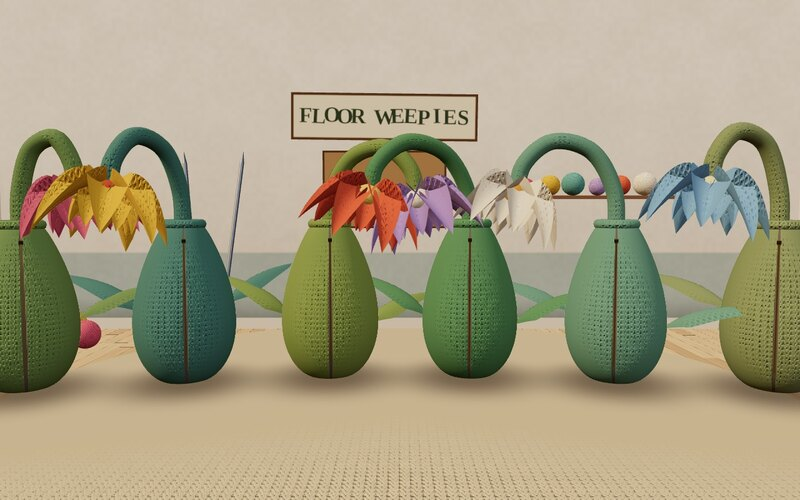
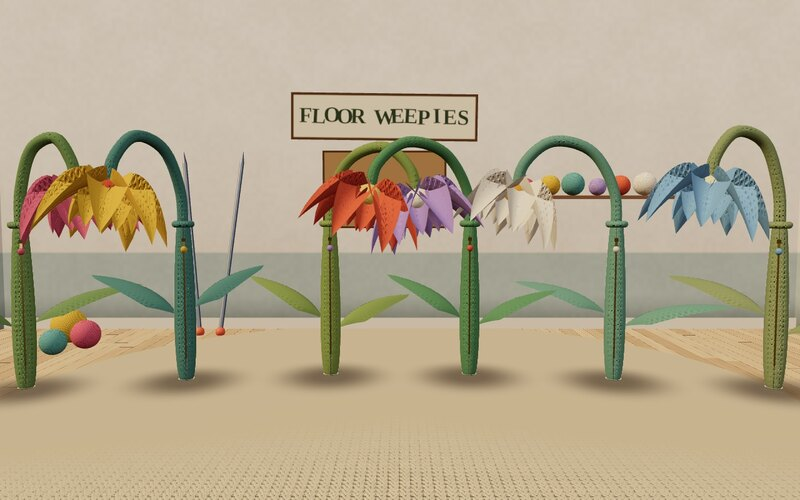
Floor Weepies: thin stems that are bigger on the inside
The stems are now as thin as stems from the room and open into a large
knitted room once you step in; the mouth stretches out as you climb in
and the space draws in snug as you zip up.

Claude-Session: https://claude.ai/code/session_01RG7EvXmrhR2hdLJ6kn4qNk

Changed region(s): [[0.0, 0.24, 1.0, 0.84], [0.4062, 0.24, 0.5938, 0.39]]

diff --git a/works/2026-11-15-floor-weepies/knit.js b/works/2026-11-15-floor-weepies/knit.js
@@ -2,21 +2,26 @@
 // rows of purl bumps on the inside, the way a real knitted tube looks when you climb into it.
 import * as THREE from 'three';
 
-export const ZTOP = 1.3, ZBOT = .22, POD_H = 1.45;
-export const podR = y => .15 + .3 * Math.pow(Math.sin(Math.PI * Math.pow(Math.min(1, Math.max(0, y / POD_H)), .7)), .75);
+export const ZTOP = 1.3, ZBOT = .22, POD_H = 1.45, IN_H = 1.7;
+// A stem has two sizes. From the room it is as thin as a stem. From inside it is a room.
+const prof = (y, a, b) => Math.pow(Math.sin(Math.PI * Math.pow(Math.min(1, Math.max(0, y / POD_H)), a)), b);
+export const stemR = y => .055 + .04 * prof(y, .7, .75);
+export const roomR = y => .22 + .9 * prof(y, .75, .7);
 
 export const TIME = { value: 0 };
 
 const POD_GLSL = /* glsl */`
-uniform float uZip, uSnug, uPhase, uTime;
-float podR(float y){ return .15 + .3*pow(max(sin(3.14159*pow(clamp(y/${POD_H}, 0., 1.), .7)), 0.), .75); }
+uniform float uZip, uSnug, uPhase, uTime, uIn, uStretch;
+float prof(float y, float a, float b){ return pow(max(sin(3.14159*pow(clamp(y/${POD_H}, 0., 1.), a)), 0.), b); }
+float podR(float y){ return mix(.055 + .04*prof(y, .7, .75), (.22 + .9*prof(y, .75, .7))*(1. - .45*uSnug), uIn); }
+float podY(float y){ return y*mix(1., ${IN_H}, uIn); }
 // Half-width of the opening, in radians, at height y: a lens above the zip pull.
 float zipW(float y){
   float span = ${ZTOP} - uZip;
   if (y <= uZip || y >= ${ZTOP} || span < .001) return 0.;
-  return .62*min(1., span/.45)*pow(sin(3.14159*(y - uZip)/span), .7);
+  return mix(1.15, .4, uIn)*min(1., span/.45)*pow(sin(3.14159*(y - uZip)/span), .7);
 }
-float podRadius(float y){ return podR(y)*(1. + .012*sin(uTime*1.1 + uPhase))*(1. - .07*uSnug); }
+float podRadius(float y){ return podR(y)*(1. + .012*sin(uTime*1.1 + uPhase)); }
 vec3 podP;
 `;
 
@@ -87,7 +92,7 @@ if (!gl_FrontFacing) {
 function install(mat, o = {}) {
   const uniforms = {
     uLining: { value: o.lining || mat.color }, uGlow: { value: o.glow ?? 0 }, uTape: { value: o.pod ? 1 : 0 },
-    uWin: o.win || { value: 0 }, uCapY: { value: o.capY ?? 1 }, uSnug: o.snug || { value: 0 }, uZip: o.zip || { value: ZTOP }, uPhase: { value: o.phase ?? 0 }, uTime: TIME
+    uWin: o.win || { value: 0 }, uCapY: { value: o.capY ?? 1 }, uIn: o.inn || { value: 0 }, uStretch: o.stretch || { value: 0 }, uSnug: o.snug || { value: 0 }, uZip: o.zip || { value: ZTOP }, uPhase: { value: o.phase ?? 0 }, uTime: TIME
   };
   mat.onBeforeCompile = sh => {
     Object.assign(sh.uniforms, uniforms);
@@ -98,21 +103,21 @@ function install(mat, o = {}) {
           float a = position.x, y = position.y, w = zipW(y);
           float ap = w + a*(6.28318 - 2.*w)/6.28318;
           float edge = min(a, 6.28318 - a);
-          float r = podRadius(y) + w*.2*exp(-edge/.3);          // the flaps fall open a little
-          podP = vec3(r*sin(ap), y, r*cos(ap));
-          float dr = (podR(y + .01) - podR(y - .01))/.02;
+          float r = podRadius(y)*(1. + (w*.5 + uStretch*2.2)*exp(-edge/.6));     // the mouth stretches out to you
+          podP = vec3(r*sin(ap), podY(y), r*cos(ap));
+          float dr = (podR(y + .01) - podR(y - .01))/.02/mix(1., 1.7, uIn);
           objectNormal = normalize(vec3(sin(ap), -dr, cos(ap)));
           vEdge = edge; vPod = vec2(ap, y);
         }` : o.tooth ? /* glsl */`
         {
           float y = aTooth.x, w = zipW(y), ang = aTooth.y*(w + .006);
-          float r = podRadius(y) + w*.2 + .006;
+          float r = podRadius(y)*(1. + w*.5 + uStretch*2.2) + .006, big = mix(1., 1.7, uIn);
           vec3 radial = vec3(sin(ang), 0., cos(ang)), tang = vec3(cos(ang), 0., -sin(ang));
-          podP = radial*(r + position.z) + vec3(0., y + position.y, 0.) + tang*(position.x - aTooth.y*.002);
+          podP = radial*(r + position.z*big) + vec3(0., podY(y) + position.y*big, 0.) + tang*(position.x - aTooth.y*.002)*big;
           objectNormal = normalize(tang*normal.x + vec3(0., normal.y, 0.) + radial*normal.z);
           vEdge = 9.; vPod = vec2(0.);
         }` : 'vEdge = 9.; vPod = vec2(0., uCapY);'))
-      .replace('#include <begin_vertex>', '#include <begin_vertex>\nvSt = uv;\n' + (o.pod || o.tooth ? 'transformed = podP;' : ''));
+      .replace('#include <begin_vertex>', '#include <begin_vertex>\nvSt = uv;\n' + (o.pod ? 'vSt *= mix(vec2(1.), vec2(15., 1.9), uIn);' : '') + (o.pod || o.tooth ? 'transformed = podP;' : ''));
     if (o.tooth) return;
     sh.fragmentShader = sh.fragmentShader
       .replace('#include <common>', '#include <common>\n' + FRAG)
@@ -151,28 +156,29 @@ const rnd = (() => { let a = 20261115; return () => { a = (a + 0x6d2b79f5) | 0; 
 // One floor weepie: a stem you can sit in, a zip, two leaves, and a head that hangs.
 export function buildFlower({ stem, petal: petalCol, heart, lining }) {
   const group = new THREE.Group();
-  const zip = { value: ZTOP }, snug = { value: 0 }, win = { value: 0 }, phase = rnd() * 6.28;
+  const zip = { value: ZTOP }, snug = { value: 0 }, win = { value: 0 }, inn = { value: 0 }, stretch = { value: 0 }, phase = rnd() * 6.28;
+  const extras = new THREE.Group(); group.add(extras);       // everything that is only there from outside
 
   // The stem. Its vertices are (angle, height); the shader wraps them round and opens the zip.
   const pg = new THREE.PlaneGeometry(1, 1, 110, 84), pp = pg.attributes.position, pu = pg.attributes.uv;
   for (let i = 0; i < pp.count; i++) {
     const a = pu.getX(i) * Math.PI * 2, y = pu.getY(i) * POD_H;
-    pp.setXYZ(i, a, y, 0); pu.setXY(i, pu.getX(i) * 50, y / SH);
+    pp.setXYZ(i, a, y, 0); pu.setXY(i, pu.getX(i) * 10, y / SH);
   }
-  const pod = new THREE.Mesh(pg, knit(stem, { pod: true, zip, snug, win, phase, lining: new THREE.Color(lining), glow: 1 }));
+  const pod = new THREE.Mesh(pg, knit(stem, { pod: true, zip, snug, win, inn, stretch, phase, lining: new THREE.Color(lining), glow: 1 }));
   pod.frustumCulled = false; group.add(pod);
-  for (const [y, r] of [[.012, .2], [POD_H - .01, .19]]) {         // gathered shut at both ends
-    const cap = new THREE.Mesh(stitchUV(new THREE.CircleGeometry(r, 24), 7, 9), knit(stem, { lining: new THREE.Color(lining), glow: 1, snug, capY: y }));
-    cap.rotation.x = y < 1 ? Math.PI / 2 : -Math.PI / 2;      // wrong side in, like the stem cap.position.y = y; group.add(cap);
-  }
-
+  const caps = [0, POD_H].map(y => {                              // gathered shut at both ends
+    const cap = new THREE.Mesh(stitchUV(new THREE.CircleGeometry(1, 24), 7, 9), knit(stem, { lining: new THREE.Color(lining), glow: 1, snug, capY: y }));
+    cap.rotation.x = y < 1 ? Math.PI / 2 : -Math.PI / 2;          // wrong side in, like the stem
+    group.add(cap); return cap;
+  });
   // Zip teeth, in the same shader space as the stem so they ride the edges of the opening.
   const pitch = .0135, n = Math.floor((ZTOP - ZBOT) / pitch), tooth = new Float32Array(n * 4);
   for (let i = 0; i < n; i++) { tooth.set([ZBOT + i * pitch, 1], i * 4); tooth.set([ZBOT + (i + .5) * pitch, -1], i * 4 + 2); }
   const tg = new THREE.BoxGeometry(.013, .0075, .007);
   tg.setAttribute('aTooth', new THREE.InstancedBufferAttribute(tooth, 2));
   const brass = new THREE.MeshStandardMaterial({ color: 0xd9b25a, roughness: .35, metalness: .9 });
-  const teeth = new THREE.InstancedMesh(tg, install(brass.clone(), { tooth: true, zip, snug, phase }), n * 2);
+  const teeth = new THREE.InstancedMesh(tg, install(brass.clone(), { tooth: true, zip, snug, inn, stretch, phase }), n * 2);
   teeth.frustumCulled = false; group.add(teeth);
   const pull = new THREE.Group();
   pull.add(new THREE.Mesh(new THREE.BoxGeometry(.034, .03, .014), brass));
@@ -186,11 +192,11 @@ export function buildFlower({ stem, petal: petalCol, heart, lining }) {
     new THREE.Vector3(0, POD_H - .08, 0), new THREE.Vector3(lean * .04, 1.75, .01), new THREE.Vector3(lean * .3, tall - .08, reach * .3),
     new THREE.Vector3(lean * .72, tall, reach * .75), new THREE.Vector3(lean * 1.02, tall - .2, reach), new THREE.Vector3(lean * 1.1, tall - .42, reach * 1.05)
   ]);
-  const neck = new THREE.Mesh(stitchUV(new THREE.TubeGeometry(curve, 40, .075, 12), Math.round(curve.getLength() / SH), 9), knit(stem));
+  const neck = new THREE.Mesh(stitchUV(new THREE.TubeGeometry(curve, 40, .05, 10), Math.round(curve.getLength() / SH), 6), knit(stem));
   const nu = neck.geometry.attributes.uv; for (let i = 0; i < nu.count; i++) nu.setXY(i, nu.getY(i), nu.getX(i));   // rows run along it
-  group.add(neck);
-  const collar = new THREE.Mesh(stitchUV(new THREE.TorusGeometry(.16, .045, 10, 28), 20, 6), knit(stem));
-  collar.rotation.x = Math.PI / 2; collar.position.y = POD_H - .01; group.add(collar);
+  extras.add(neck);
+  const collar = new THREE.Mesh(stitchUV(new THREE.TorusGeometry(.07, .03, 10, 24), 10, 4), knit(stem));
+  collar.rotation.x = Math.PI / 2; collar.position.y = POD_H - .01; extras.add(collar);
 
   // Head: two rounds of petals and a bobble for a heart, hung from the end of the neck.
   const head = new THREE.Group(), end = curve.getPoint(1), dir = curve.getTangent(1);
@@ -203,7 +209,7 @@ export function buildFlower({ stem, petal: petalCol, heart, lining }) {
     m.position.y = ring ? .03 : 0; head.add(m);
   }
   const hm = new THREE.Mesh(stitchUV(new THREE.SphereGeometry(.15, 20, 14), 18, 9), knit(heart)); hm.scale.y = .75; hm.position.y = .06; head.add(hm);
-  group.add(head);
+  extras.add(head);
 
   // Leaves.
   const lm = knit(stem);
@@ -211,26 +217,31 @@ export function buildFlower({ stem, petal: petalCol, heart, lining }) {
     const leaf = new THREE.Mesh(petal(.7 + rnd() * .2, .3, .6, -.35), lm);
     const y = .42 + rnd() * .25; leaf.rotation.order = 'YXZ';
     leaf.rotation.y = s * (1.5 + rnd() * .6); leaf.rotation.x = -.75 - rnd() * .3;
-    leaf.position.set(Math.sin(leaf.rotation.y) * podR(y) * .9, y, Math.cos(leaf.rotation.y) * podR(y) * .9); group.add(leaf);
+    leaf.position.set(Math.sin(leaf.rotation.y) * stemR(y) * .8, y, Math.cos(leaf.rotation.y) * stemR(y) * .8); extras.add(leaf);
   }
 
-  const shadow = new THREE.Mesh(new THREE.CircleGeometry(1.05, 32), new THREE.ShaderMaterial({
+  const shadow = new THREE.Mesh(new THREE.CircleGeometry(.75, 32), new THREE.ShaderMaterial({
     transparent: true, depthWrite: false,
     vertexShader: 'varying vec2 vUv; void main(){ vUv = uv; gl_Position = projectionMatrix*modelViewMatrix*vec4(position, 1.); }',
     fragmentShader: 'varying vec2 vUv; void main(){ float d = length(vUv - .5)*2.; gl_FragColor = vec4(.16, .09, .05, .5*pow(smoothstep(1., .15, d), 1.6)); }'
   }));
-  shadow.rotation.x = -Math.PI / 2; shadow.position.set(0, .006, .12); shadow.renderOrder = 1; group.add(shadow);
+  shadow.rotation.x = -Math.PI / 2; shadow.position.set(0, .006, .1); shadow.renderOrder = 1; extras.add(shadow);
 
   const headQ = head.quaternion.clone();
   return {
-    group, zip, snug, win, pull, head, perk: 0, phase,
+    group, zip, snug, win, inn, stretch, pull, head, perk: 0, phase,
     update(time, perkTarget, dt) {
       this.perk += (perkTarget - this.perk) * (1 - Math.exp(-dt / .35));
       const nod = Math.sin(time * .6 + phase) * .05, sway = Math.sin(time * .43 + phase * 2) * .04;
       head.quaternion.copy(headQ).multiply(new THREE.Quaternion().setFromEuler(new THREE.Euler(nod - this.perk * .5 + snug.value * .35, 0, sway)));
-      const y = zip.value, breathe = 1 + .012 * Math.sin(time * 1.1 + phase);
-      pull.position.set(0, y, podR(y) * breathe * (1 - .07 * snug.value) + .016);
-      pull.rotation.x = -Math.atan((podR(y + .01) - podR(y - .01)) / .02);
+      const big = inn.value > .5, sy = big ? IN_H : 1, breathe = 1 + .012 * Math.sin(time * 1.1 + phase);
+      const R = y => (big ? roomR(y) * (1 - .45 * snug.value) : stemR(y)) * breathe;
+      const y = zip.value;
+      extras.visible = !big;
+      pull.position.set(0, y * sy, R(y) + .016 * sy); pull.scale.setScalar(sy);
+      pull.rotation.x = -Math.atan((R(y + .01) - R(y - .01)) / .02 / sy);
+      caps[0].position.y = .012; caps[0].scale.setScalar(R(0) * 1.3);
+      caps[1].position.y = (POD_H - .01) * sy; caps[1].scale.setScalar(R(POD_H) * 1.3);
     }
   };
 }

diff --git a/works/2026-11-15-floor-weepies/main.js b/works/2026-11-15-floor-weepies/main.js
@@ -32,18 +32,19 @@ const flowers = [
   f.group.position.set(c.x, 0, c.z);
   f.group.rotation.y = Math.atan2(HOME.x * .4 - c.x, HOME.z - c.z);      // zips face the door
   f.win.value = Math.atan2(-Math.cos(f.group.rotation.y), Math.sin(f.group.rotation.y));     // which way the window is, from in there
+  f.lining = new THREE.Color(c.lining);
   f.front = new THREE.Vector3(Math.sin(f.group.rotation.y), 0, Math.cos(f.group.rotation.y));
   scene.add(f.group);
   return f;
 });
 
 // ---- where you are ----
-let state = 'room', cur = null, hover = null, zipTarget = ZTOP, insideT = 0, snugT = 0, time = 0;
+let state = 'room', cur = null, hover = null, zipTarget = ZTOP, insideT = 0, snugT = 0, time = 0, trans = null;
 const camPos = HOME.clone(), camLook = HOME_LOOK.clone(), look = { x: 0, y: 0, tx: 0, ty: 0 };
 let fov = 42;
 const sound = buildSound();
 const $ = id => document.getElementById(id);
-const hint = $('hint'), line = $('line'), back = $('back'), soundBtn = $('sound'), form = $('names'), said = $('said');
+const flash = $('flash'), hint = $('hint'), line = $('line'), back = $('back'), soundBtn = $('sound'), form = $('names'), said = $('said');
 const open = () => cur ? (ZTOP - cur.zip.value) / (ZTOP - ZBOT) : 0;
 
 function setState(s, f = cur) {
@@ -51,12 +52,15 @@ function setState(s, f = cur) {
   state = s; cur = s === 'room' ? null : f; if (cur) { cur.closing = false; zipTarget = cur.zip.value; }
   document.body.dataset.state = s; insideT = 0; snugT = 0;
 }
+// Going in or out is a step through somewhere the outside and the inside don't agree on size.
+function step(to) { if (!trans) { trans = { t: 0, to, done: false }; flash.style.background = '#' + cur.lining.getHexString(); } }
 function act() {            // a tap, or Enter
+  if (trans) return;
   if (state === 'room') { if (hover) setState('at', hover); }
-  else if (state === 'at') { if (open() > .7) setState('inside'); }
-  else if (open() > .7) setState('at');
+  else if (state === 'at') { if (open() > .7) step('inside'); }
+  else if (open() > .7) step('at');
 }
-function goBack() { if (state === 'inside') { if (open() > .7) setState('at'); else zipTarget = ZBOT; } else if (state === 'at') setState('room'); }
+function goBack() { if (trans) return; if (state === 'inside') { if (open() > .7) step('at'); else zipTarget = ZBOT; } else if (state === 'at') setState('room'); }
 
 function pick(x, y) {
   const ray = new THREE.Raycaster(); ray.setFromCamera(new THREE.Vector2(x / innerWidth * 2 - 1, -(y / innerHeight) * 2 + 1), camera);
@@ -67,7 +71,7 @@ function pick(x, y) {
     seg.set(a, b);
     // closest approach between the ray and the flower's axis
     const d = Math.sqrt(ray.ray.distanceSqToSegment(a, b, p1, p2)), dist = ray.ray.origin.distanceTo(p2);
-    if (d < .55 && dist < bd) { bd = dist; best = f; }
+    if (d < .45 && dist < bd) { bd = dist; best = f; }
   }
   return best;
 }
@@ -139,9 +143,23 @@ function tick(dt) {
   // camera
   const portrait = innerWidth < innerHeight;
   let wantFov = portrait ? 62 : 42;
+  const P = cur && cur.group.position, at = (d, y) => tmp.copy(P).addScaledVector(cur.front, d).setY(y).clone();
   if (state === 'room') { tmp.copy(HOME); if (portrait) tmp.z += 1.2; tmp2.copy(HOME_LOOK); }
-  else if (state === 'at') { tmp.copy(cur.group.position).addScaledVector(cur.front, portrait ? 3.1 : 2.7).setY(1.35); tmp2.copy(cur.group.position).setY(1.08); }
-  else { tmp.copy(cur.group.position).addScaledVector(cur.front, -.1).setY(.8); tmp2.copy(cur.group.position).addScaledVector(cur.front, 1).setY(.84); wantFov = portrait ? 86 : 72; }
+  else if (state === 'at') { tmp.copy(at(portrait ? 2.9 : 2.5, 1.2)); tmp2.copy(P).setY(.98); }
+  else { tmp.copy(at(-.3, 1.0)); tmp2.copy(at(1, 1.08)); wantFov = portrait ? 86 : 72; }
+  if (trans) {
+    trans.t += dt / 1.5;
+    if (trans.to === 'inside') { tmp.copy(at(.38, .9)); tmp2.copy(P).setY(.85); cur.stretch.value = Math.min(1, trans.t * 2.2) ** 2; }
+    else { tmp.copy(at(.75, 1.15)); tmp2.copy(at(2, 1.1)); }
+    if (trans.t >= .5 && !trans.done) {          // the moment nobody sees
+      trans.done = true; cur.stretch.value = 0;
+      const going = trans.to === 'inside';
+      cur.inn.value = going ? 1 : 0; setState(trans.to);
+      camPos.copy(going ? at(.35, 1.02) : at(.55, .92)); camLook.copy(going ? at(1.4, 1.1) : P.clone().setY(.9)); fov = going ? 60 : 50;
+    }
+    flash.style.opacity = Math.max(0, 1 - Math.abs(trans.t - .5) * 2.6);
+    if (trans.t >= 1) { trans = null; flash.style.opacity = 0; }
+  }
   camPos.lerp(tmp, k(.55)); camLook.lerp(tmp2, k(.45)); fov += (wantFov - fov) * k(.6);
   look.x += (look.tx - look.x) * k(.5); look.y += (look.ty - look.y) * k(.5);
   camera.position.copy(camPos); camera.fov = fov; camera.updateProjectionMatrix();
@@ -172,7 +190,7 @@ requestAnimationFrame(frame);
 
 window.weepies = {
   flowers, camera, scene, renderer, tick,
-  go(i) { setState('at', flowers[i]); }, zip(v) { zipTarget = ZTOP - v * (ZTOP - ZBOT); }, enter() { setState('inside'); }, home() { setState('room'); },
+  go(i) { setState('at', flowers[i]); }, zip(v) { zipTarget = ZTOP - v * (ZTOP - ZBOT); }, enter() { step('inside'); }, leave() { step('at'); }, home() { setState('room'); },
   run(seconds, dt = 1 / 30) { for (let t = 0; t < seconds; t += dt) tick(dt); return canvas.toDataURL('image/jpeg', .92); },
   get state() { return { state, open: open(), snug: cur ? cur.snug.value : 0, hint: hint.textContent, cls: document.body.className }; }
 };

diff --git a/works/2026-11-15-floor-weepies/index.html b/works/2026-11-15-floor-weepies/index.html
@@ -13,6 +13,7 @@
 <body class="intro" data-state="room">
   <canvas id="view" aria-label="A room of knitted flowers as tall as a person. Choose one, drag down to unzip its stem, climb in, and drag up to zip yourself inside. Arrow keys choose and move the zip, Enter climbs in or out, Escape goes back."></canvas>
   <div id="dark"></div>
+  <div id="flash"></div>
   <p id="line">I dreamt I met an inventor who made knitted flowers as tall as a person. He called them floor weepies.</p>
   <p id="lovely">No idea why he named them that. Being inside one was lovely.</p>
   <p id="hint" aria-live="polite"></p>

diff --git a/works/2026-11-15-floor-weepies/style.css b/works/2026-11-15-floor-weepies/style.css
@@ -3,6 +3,7 @@ body { font-family: "Iowan Old Style", "Palatino Linotype", Palatino, Georgia, s
 #view { position: fixed; inset: 0; width: 100%; height: 100%; display: block; touch-action: none; }
 #dark { position: fixed; inset: 0; pointer-events: none; opacity: 0; transition: opacity 2.5s; background: radial-gradient(ellipse at 50% 45%, transparent 35%, rgba(40, 14, 0, .62) 100%); }
 body[data-state="inside"] #dark { opacity: 1; }
+#flash { position: fixed; inset: 0; pointer-events: none; opacity: 0; }
 p { margin: 0; }
 button, input { font: inherit; color: inherit; }
 

diff --git a/works/2026-11-15-floor-weepies/README.md b/works/2026-11-15-floor-weepies/README.md
@@ -5,14 +5,19 @@ inventor who was making human-height knitted flowers he called "floor weepies". 
 unzip the stem, sit inside, and it would be snug around you and make you feel good. You and
 a friend were telling him to name it something else, but being in one was lovely.
 
-This is a first version, made in one go from that paragraph.
+The first version, made in one go from that paragraph, had fat stems you could plainly fit
+inside. You told me that was wrong: the stems were very thin but could somehow extend
+outwards, and they were bigger on the inside, like in Doctor Who. This is the second version.
 
 ## What it is
 
-A room with six knitted flowers as tall as a person, heads hanging. Pick one. Drag down to
-pull its zip, tap to climb in, then drag up to zip yourself in. As the zip closes the room
-goes away, the wool draws in a little and breathes, and the only light is what comes
-through the stitches. Stay as long as you like; drag down to let yourself out.
+A room with six knitted flowers as tall as a person, heads hanging, on stems no thicker
+than your arm. Pick one. Drag down to pull its zip and a narrow slit of lining shows. Tap to
+climb in: the mouth of the stem stretches out towards you, and then you are inside, in a
+knitted room far bigger than the stem it is in. Drag up to zip yourself in. As the zip
+closes the room outside goes away, the wool draws in around you until it is snug, and the
+only light is what comes through the stitches. Stay as long as you like; drag down to let
+yourself out.
 
 Back in the room there is a box, bottom left, for suggesting a better name. He pins your
 suggestion to the board on the wall. The sign stays as it is.
@@ -40,8 +45,10 @@ Plain JavaScript and three.js r170 (in `vendor/`), no network needed.
 - `knit.js` is the yarn. One shader draws every stitch: V-shaped knit stitches on the
   outside of a thing and rows of purl bumps on the inside, which is how a knitted tube
   really looks from within. The stem is a flat sheet of (angle, height) points that the
-  shader wraps into a pod; the zip is an opening it pulls apart above the zip pull, and
-  the brass teeth are placed by the same maths so they ride the edges.
+  shader wraps into a tube; the zip is an opening it pulls apart above the zip pull, and
+  the brass teeth are placed by the same maths so they ride the edges. The tube has two
+  sizes, a thin one seen from the room and a large one seen from inside. The swap happens
+  as you step through, behind a moment of lining colour, so you never see both at once.
 - `room.js` is the room, the sign and the suggestions board (drawn on a canvas).
 - `main.js` is the camera, the dragging and the three places you can be: in the room,
   at a flower, inside it.
@@ -51,9 +58,9 @@ Names you suggest are kept in your own browser only (`localStorage`); nobody els
 
 ## What I checked and what I couldn't
 
-I rendered every step in a headless browser, and drove the real page with a mouse and
-keyboard at desktop and phone sizes: choose, unzip, climb in, zip up, the line appearing,
-Escape back out, and pinning two names. No errors.
+I rendered every step of both versions in a headless browser, and drove the real page with
+a mouse and keyboard at desktop and phone sizes: choose, unzip, climb in, zip up, the line
+appearing, Escape back out, and pinning two names. No errors.
 
 I could not check how it feels under a real finger on a touchscreen, how fast it runs on a
 real graphics card (it is much lighter than the wall), or the sound, which I can't hear.

diff --git a/_posts/2026-11-15-floor-weepies.md b/_posts/2026-11-15-floor-weepies.md
@@ -7,12 +7,13 @@ thumb: /assets/thumbs/2026-11-15-floor-weepies.jpg
 ---
 
 You dreamt you met an inventor who was making knitted flowers as tall as a person. He called
-them floor weepies. You could unzip the stem and sit inside, and it was snug around you and
-made you feel good. You and a friend kept telling him to call it something else.
+them floor weepies. The stems were very thin, but you could unzip one and sit inside, and it
+was bigger in there than out here, and snug around you, and it made you feel good. You and
+a friend kept telling him to call it something else.
 
 Choose a flower. Drag down to unzip it, tap to climb in, then drag up to zip yourself in.
 Bottom left, you can suggest a better name; he'll pin it up. Sound is bottom right.
 
-A first version, made from that one paragraph. What I decided for you, and what I couldn't
+The second version: the first had fat stems, and you told me they were thin. What I decided for you, and what I couldn't
 test, is in the
 [README]({{ '/works/2026-11-15-floor-weepies/README.md' | relative_url }}).
